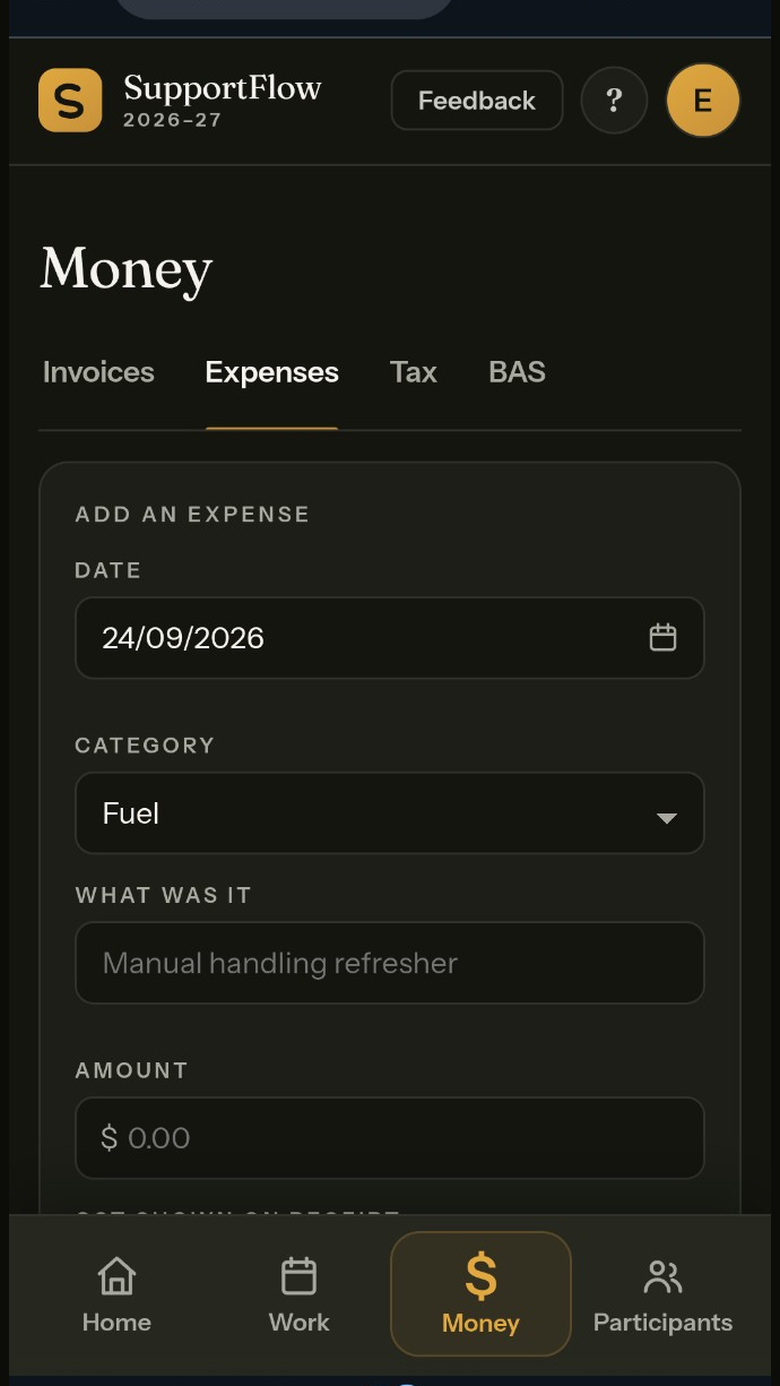
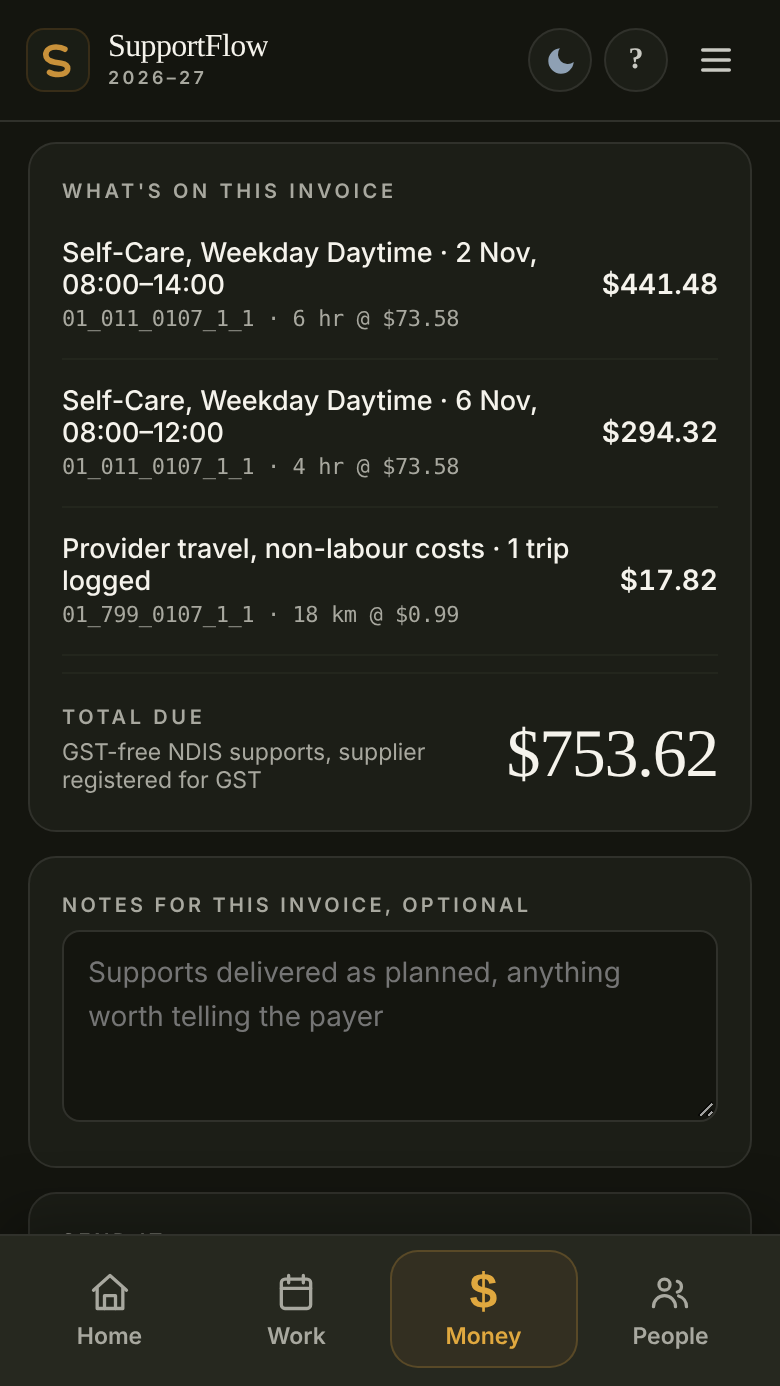
Homepage: replace Expenses screenshot with a completed sample invoice
Claude-Session: https://claude.ai/code/session_01PtA7n9GgZkLy6CdhnaBb6w

diff --git a/sw.js b/sw.js
@@ -1,6 +1,6 @@
 /* SupportFlow™ — service worker
    Bump CACHE when you deploy, or testers will keep the old build. */
-const CACHE = 'supportflow-v62-home-tiles';
+const CACHE = 'supportflow-v63-invoice-shot';
 
 // Everything needed to open the app with no network at all.
 const CORE = [
